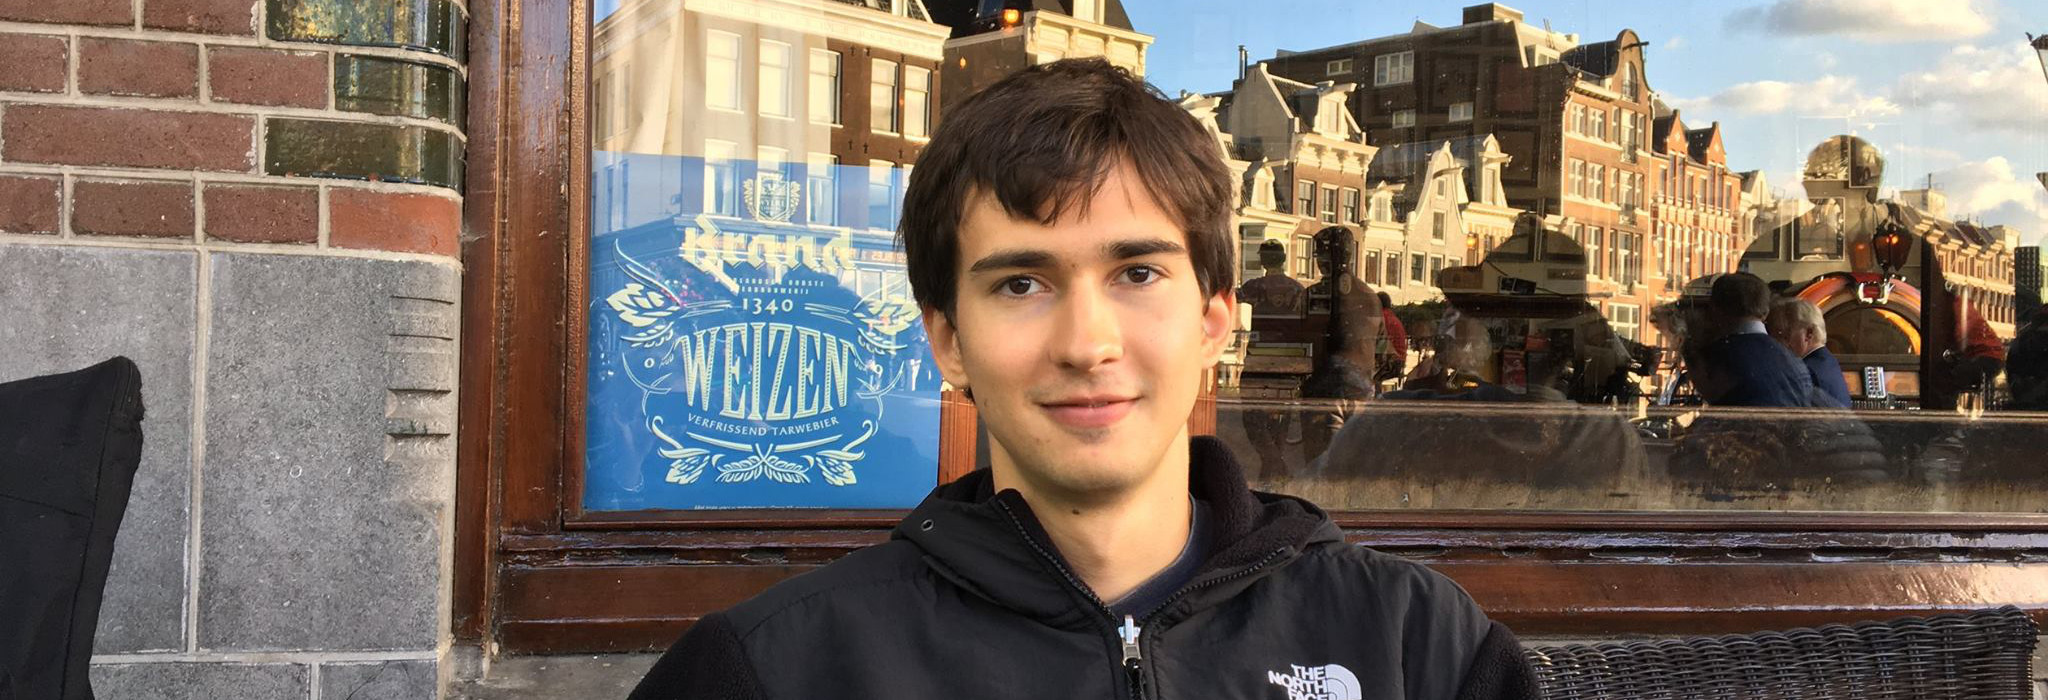
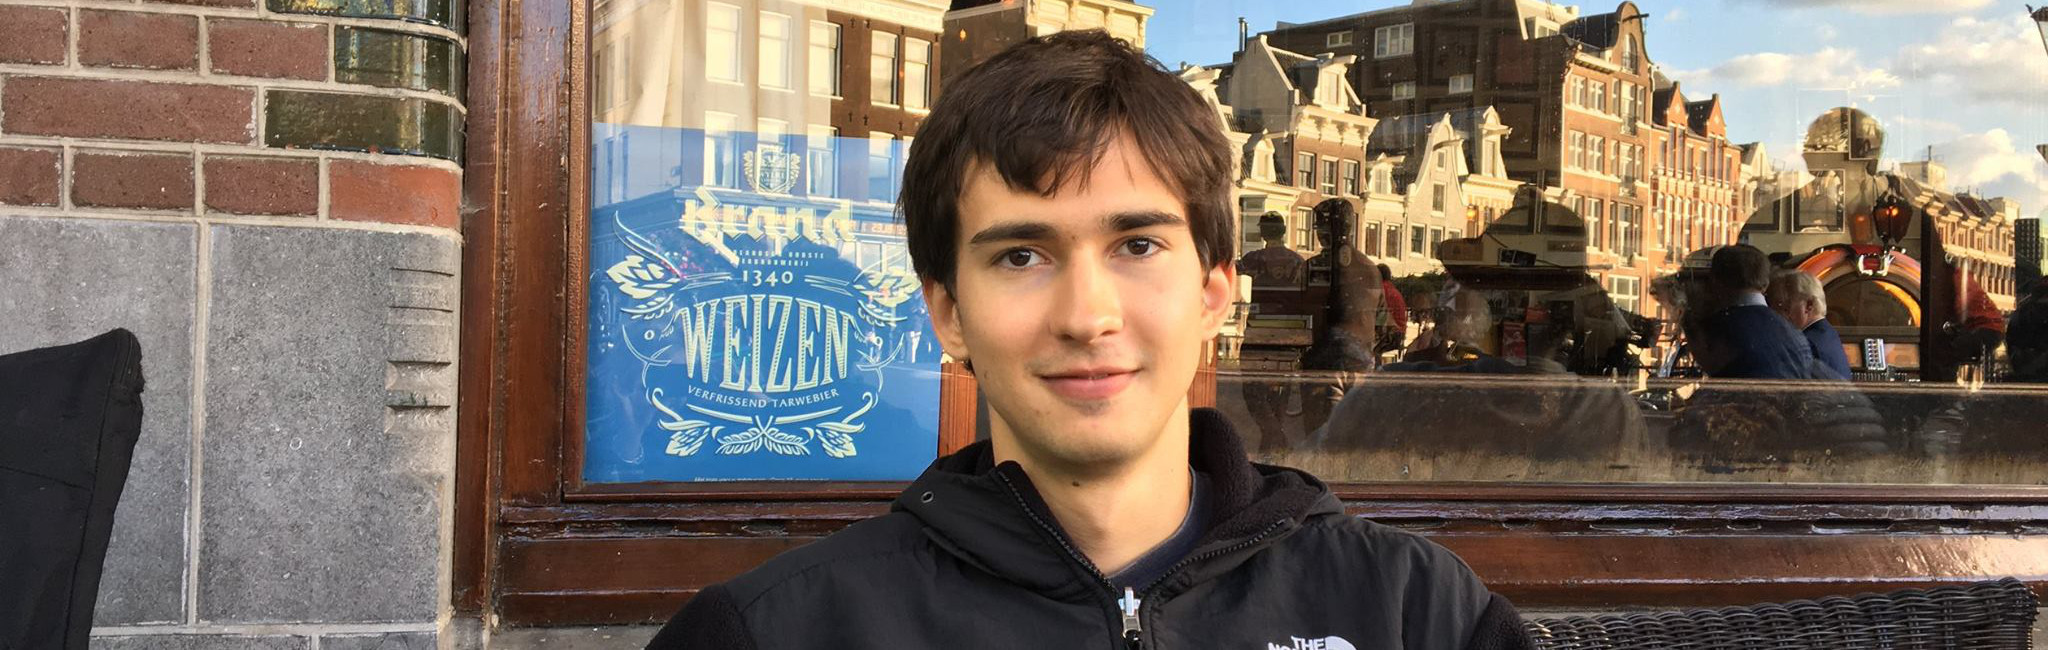
tweaked home

diff --git a/src/App.vue b/src/App.vue
@@ -2,7 +2,7 @@
   <div id="app">
     <div id="header">
       <div id="nav-container">
-        <div id="name">Clint Burgos</div>
+        <a href="/"><div id="name">Clint Burgos</div></a>
         <div id="nav">
           <a href='work'>Work</a>
           &emsp;
@@ -18,7 +18,7 @@
       <a href="https://www.linkedin.com/in/clintburgos/" target="_blank">
         <img class="footer-icon" src="./assets/linkedin_icon.png" alt="LinkedIn">
       </a>
-      &emsp;
+      &nbsp;
       <a href="https://github.com/clintburgos" target="_blank">
         <img class="footer-icon" src="./assets/github_icon.png" alt="GitHub">
       </a>
@@ -34,15 +34,47 @@ export default {
 
 <style>
 
+a {
+  color: #999999;
+  text-decoration: none;
+  target: '_blank';
+}
+
+a:visited {
+  color: #999999;
+}
+
+a:hover {
+  color: #000000;
+}
+
+a:active {
+  color: #000000;
+}
+
+h1 {
+  font-family: 'Metric-Bold', Arial, sans-serif;
+  font-style: normal;
+  font-weight: 400;
+  font-size: 36px;
+  line-height: 1.2;
+  color: #000000;
+  margin: 0px;
+}
+
 #app {
   margin: 0px;
   padding: 0px;
-  font-family: 'Georgia';
-  font-size: 18px;
+  font-family: "lemonde-journal", Georgia, serif;;
+  font-style: normal;
+  font-weight: 400;
+  font-size: 22px;
+  line-height: 1.74;
+  color: #424242;
   -webkit-font-smoothing: antialiased;
   -moz-osx-font-smoothing: grayscale;
+  text-rendering: optimizeLegibility;
   text-align: center;
-  color: #2c3e50;
 }
 
 #header {
@@ -57,7 +89,6 @@ export default {
 
 #name {
   text-align: left;
-  color: 'black';
   flex: 2;
   margin: 0px;
   display: inline-block;
@@ -90,25 +121,6 @@ export default {
 
 .footer-icon:hover {
   opacity: 0.6;
-}
-
-a {
-  target: '_blank';
-}
-
-a:link {
-  color: #999999;
-  text-decoration: none;
-}
-
-a:hover {
-  color: #000000;
-}
-
-h1 {
-  font-family: 'Arial';
-  font-size: 24px;
-  margin: 0px;
 }
 
 </style>

diff --git a/src/components/Home.vue b/src/components/Home.vue
@@ -1,5 +1,6 @@
 <template>
   <div>
+    <img id="me_cutout" src="../assets/me_banner.jpg">
     <div id="about">
       <text-block
         title='I thrive with heavy research and fine-tuning.'
@@ -7,7 +8,6 @@
         Get in contact with me with the social media links at the bottom of the page. Together let’s learn, innovate, and make cool stuff!'
       />
     </div>
-    <img id="me_cutout" src="../assets/me_cutout.png">
   </div>
 </template>
 
@@ -21,14 +21,14 @@ export default {
 
 #about {
   vertical-align: top;
-  display: inline-block;
+  /*display: inline-block;*/
 }
 
 #me_cutout {
-  margin-left: 8px;
-  width: 211px;
-  height: 250px;
-  display: inline-block;
+  padding: 0px;
+  margin: 0px;
+  width: 100%
+  /*display: inline-block;*/
 }
 
 </style>

diff --git a/src/components/TextBlock.vue b/src/components/TextBlock.vue
@@ -15,10 +15,21 @@ export default {
 
 <style scoped>
 
-#text-block-container {
-  width: 620px;
-  text-align: left;
+h1 {
+  font-family: 'Metric-Bold', Arial, sans-serif;
+  font-style: normal;
+  font-weight: 700;
+  font-size: 36px;
   line-height: 1.2;
+  color: #000000;
+  margin: 0px;
+}
+
+#text-block-container {
+  margin: 0 auto;
+  max-width: 860px;
+  text-align: left;
+  font: inherit;
 }
 
 </style>
